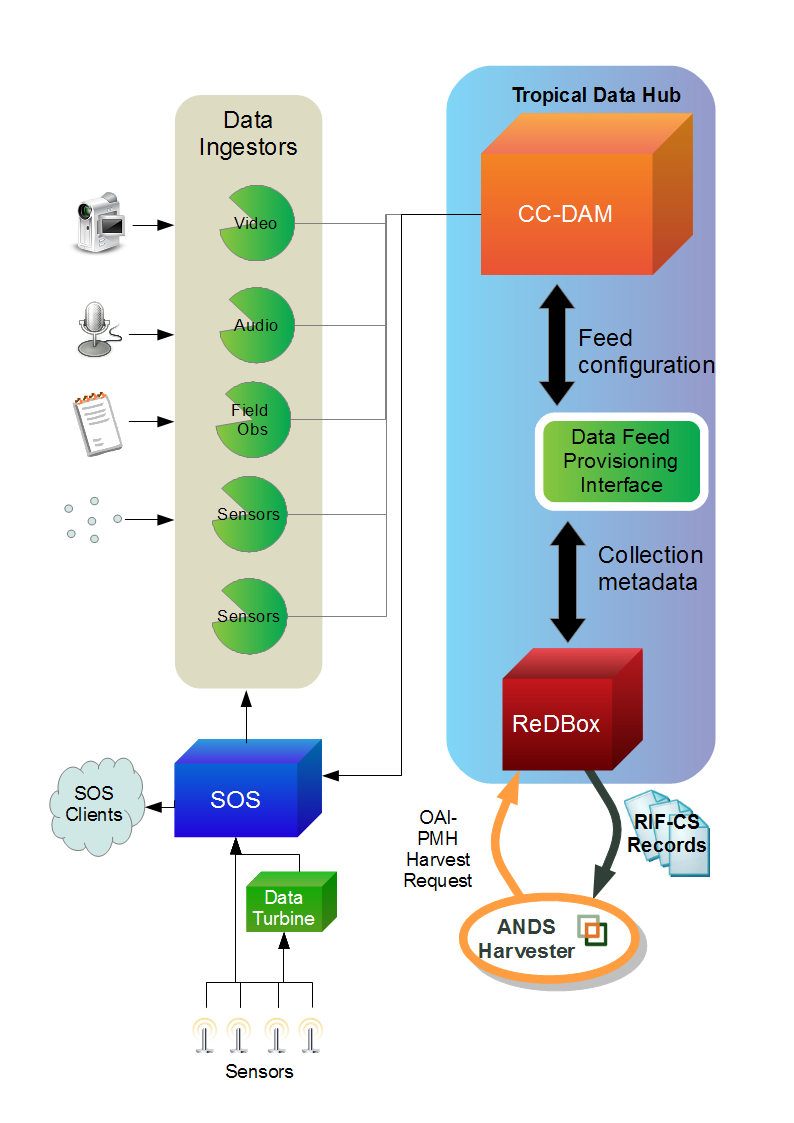
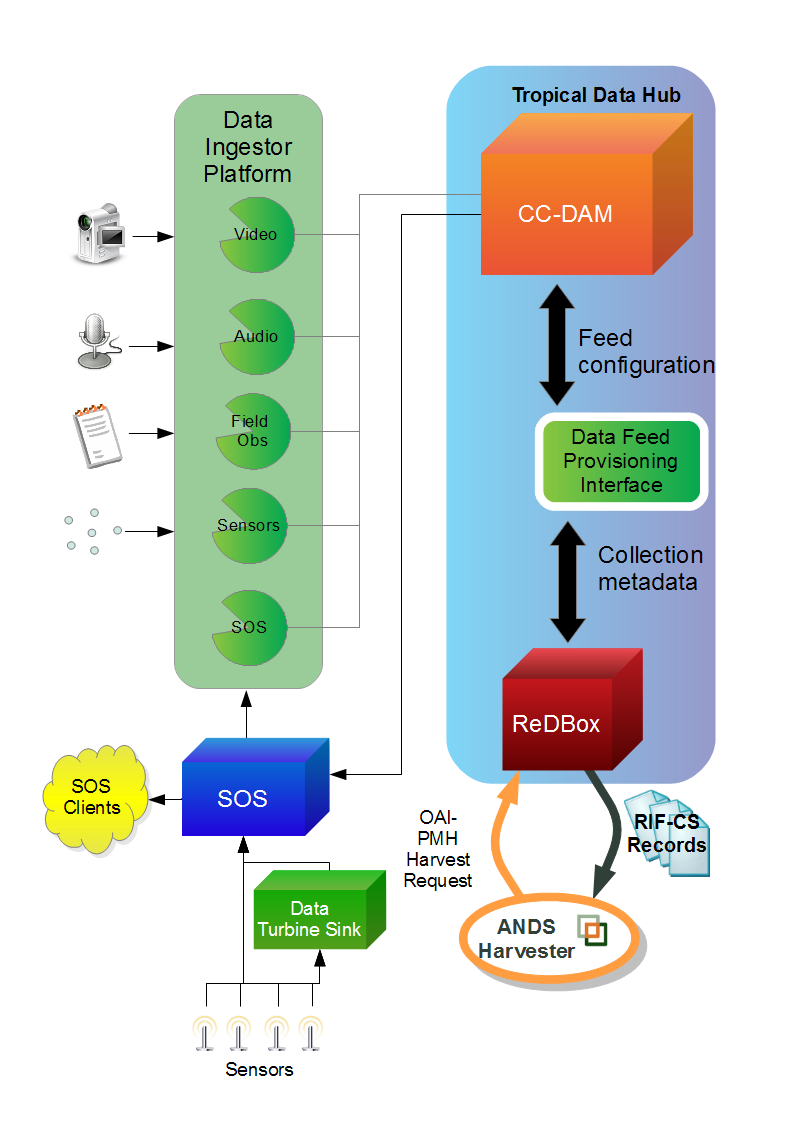
Updated the blog before initial sync

diff --git a/_site/2012/08/27/key-technologies--key-features/index.html b/_site/2012/08/27/key-technologies--key-features/index.html
@@ -125,11 +125,11 @@
 <img class='diagram' src='/TDH-rich-data-capture/images/high-level-architecture.png' />
 <h2 id='technology'>Technology</h2>
 
-<p>The provisioning interface will be delivered in browser using <a href='http://www.python.org/'>Python</a> with the <a href='http://docs.pylonsproject.org/en/latest/docs/pyramid.html'>Pyramid</a> and <a href='http://docs.pylonsproject.org/projects/deform/en/latest/'>Deform</a> frameworks. It will provide a user friendly workflow for entering all configuration and metadata about the project at a single location. The entered data will be passed to the <a href='http://www.coastalcoms.com/'>CoastalCOMS</a> Data Access Management (CC-DAM), <a href='http://www.opengeospatial.org/standards/sos'>Sensor Observation Service (SOS)</a> and <a href='http://www.redboxresearchdata.com.au/'>ReDBox-Mint</a> systems to tie them together as a single easy to use system.</p>
+<p>The provisioning interface will be delivered in browser closely linked to the <a href='http://www.redboxresearchdata.com.au/'>ReDBox</a> system and will provide a user friendly workflow for entering all configuration and metadata about the project at a single location. The entered data will be passed to the <a href='http://www.coastalcoms.com/'>CoastalCOMS</a> Data Access Management (CC-DAM), <a href='http://www.opengeospatial.org/standards/sos'>Sensor Observation Service (SOS)</a> and <a href='http://www.redboxresearchdata.com.au/'>ReDBox-Mint</a> systems to tie them together as a single easy to use system.</p>
 
 <p>The implementation of <a href='http://www.opengeospatial.org/standards/sos'>SOS</a> provided by <a href='http://52north.org/'>52&#176; North</a> will be used to receive environmental sensor data and metadata from the devices themselves. A new data layer will need to be written based on the CC-DAM system. A <a href='http://www.dataturbine.org/'>Data Turbine</a> sink implementation will written to allow buffering of data sent to the <a href='http://www.opengeospatial.org/standards/sos'>SOS</a>, it will be optional to use the <a href='http://www.dataturbine.org/'>Data Turbine</a>.</p>
 
-<p>CC-DAM will be used for data ingestion and storage. CC-DAM is proprietary software that will be setup and configured at <a href='http://www.jcu.edu.au/'>James Cook University</a> with an open source ingestor platform developed in <a href='http://www.java.com/en/'>Java</a> with a <a href='http://www.json.org/'>JSON</a> API.</p>
+<p>CC-DAM will be used for data ingestion and storage. CC-DAM is proprietary software that will be setup and configured at <a href='http://www.jcu.edu.au/'>James Cook University</a> with an open source ingestor platform developed in <a href='http://www.java.com/en/'>Java</a> with a <a href='http://www.json.org/'>JSON</a> API and ingestors will be written in <a href='http://www.python.org/'>Python</a>.</p>
 
 <p><a href='http://www.jcu.edu.au'>JCU&#8217;s</a> <a href='http://www.redboxresearchdata.com.au/'>ReDBox-Mint</a> installation will be used for storing, searching and publishing research metadata. ReDBox captures collection metadata (information about research data) whereas Mint is a name authority and vocabulary system (information about people, activities and services). Both ReDBox and Mint provide an <a href='http://www.openarchives.org/pmh/'>OAI-PMH</a> interface for harvesting their information and will be configured for <a href='http://researchdata.ands.org.au/'>Research Data Australia (RDA)</a> so that metadata is published nationally.</p>
 

diff --git a/_site/2012/08/27/the-team/index.html b/_site/2012/08/27/the-team/index.html
@@ -161,6 +161,24 @@
         <li>Embedded -  assembly, C, Microchip</li>
         <li>Software -  IntelliJ Idea, Adobe Photoshop, Altium, Subversion, Maven, OneJar, Ant, Nullsoft</li>
    </ul>
+</div><div class='person'>
+    <a name='nigelSims'> </a>
+    
+    
+    <h2>Nigel Sims</h2>
+    <h3>CC-DAM Software Engineer</h3>   
+</div><div class='person'>
+    <a name='nigelBajema'> </a>
+    
+    
+    <h2>Nigel Bajema</h2>
+    <h3>SEMAT &#38; ScienceMob Software Engineer, PhD Candidate</h3>    
+</div><div class='person'>
+    <a name='jin'> </a>
+    
+    
+    <h2>Yong Jin Lee</h2>
+    <h3>SEMAT &#38; ScienceMob Software Engineer, PhD Candidate</h3>
 </div>
     <hr>
     <div class="pagination">

diff --git a/_posts/2012-08-27-key-technologies--key-features.md b/_posts/2012-08-27-key-technologies--key-features.md
@@ -28,11 +28,11 @@ Architecture
 
 Technology
 ----------
-The provisioning interface will be delivered in browser using [Python](http://www.python.org/) with the [Pyramid](http://docs.pylonsproject.org/en/latest/docs/pyramid.html) and [Deform](http://docs.pylonsproject.org/projects/deform/en/latest/) frameworks.  It will provide a user friendly workflow for entering all configuration and metadata about the project at a single location.  The entered data will be passed to the [CoastalCOMS](http://www.coastalcoms.com/) Data Access Management (CC-DAM), [Sensor Observation Service (SOS)](http://www.opengeospatial.org/standards/sos) and [ReDBox-Mint](http://www.redboxresearchdata.com.au/) systems to tie them together as a single easy to use system.
+The provisioning interface will be delivered in browser closely linked to the [ReDBox](http://www.redboxresearchdata.com.au/) system and will provide a user friendly workflow for entering all configuration and metadata about the project at a single location.  The entered data will be passed to the [CoastalCOMS](http://www.coastalcoms.com/) Data Access Management (CC-DAM), [Sensor Observation Service (SOS)](http://www.opengeospatial.org/standards/sos) and [ReDBox-Mint](http://www.redboxresearchdata.com.au/) systems to tie them together as a single easy to use system.
 
 The implementation of [SOS](http://www.opengeospatial.org/standards/sos) provided by [52&#176; North](http://52north.org/) will be used to receive environmental sensor data and metadata from the devices themselves.  A new data layer will need to be written based on the CC-DAM system.  A [Data Turbine](http://www.dataturbine.org/) sink implementation will written to allow buffering of data sent to the [SOS](http://www.opengeospatial.org/standards/sos), it will be optional to use the [Data Turbine](http://www.dataturbine.org/).
 
-CC-DAM will be used for data ingestion and storage.  CC-DAM is proprietary software that will be setup and configured at [James Cook University](http://www.jcu.edu.au/) with an open source ingestor platform developed in [Java](http://www.java.com/en/) with a [JSON](http://www.json.org/) API.
+CC-DAM will be used for data ingestion and storage.  CC-DAM is proprietary software that will be setup and configured at [James Cook University](http://www.jcu.edu.au/) with an open source ingestor platform developed in [Java](http://www.java.com/en/) with a [JSON](http://www.json.org/) API and ingestors will be written in [Python](http://www.python.org/).
 
 [JCU's](http://www.jcu.edu.au) [ReDBox-Mint](http://www.redboxresearchdata.com.au/) installation will be used for storing, searching and publishing research metadata.  ReDBox captures collection metadata (information about research data) whereas Mint is a name authority and vocabulary system (information about people, activities and services).  Both ReDBox and Mint provide an [OAI-PMH](http://www.openarchives.org/pmh/) interface for harvesting their information and will be configured for [Research Data Australia (RDA)](http://researchdata.ands.org.au/) so that metadata is published nationally.
 

diff --git a/_posts/2012-08-27-the-team.md b/_posts/2012-08-27-the-team.md
@@ -54,7 +54,7 @@ tags: [andsProject, andsProjectTeam, andsSkills, andsDataCapture, andsDC24, fund
     {% assign casey = site.people['casey'] %}
     {% if casey.gravatar %}
         <div class="avatarwrapper">
-            <img class="avatar" src="http://www.gravatar.com/avatar/{{ cbajema.gravatar }}?s=64">
+            <img class="avatar" src="http://www.gravatar.com/avatar/{{ casey.gravatar }}?s=64">
         </div>
     {% endif %}
     <h2>Casey Bajema</h2>
@@ -69,5 +69,38 @@ tags: [andsProject, andsProjectTeam, andsSkills, andsDataCapture, andsDC24, fund
         <li>Embedded -  assembly, C, Microchip</li>
         <li>Software -  IntelliJ Idea, Adobe Photoshop, Altium, Subversion, Maven, OneJar, Ant, Nullsoft</li>
    </ul>
+</div>
+<div class="person">
+    <a name="nigelSims"> </a>
+    {% assign nigelSims = site.people['nigelSims'] %}
+    {% if nigelSims.gravatar %}
+        <div class="avatarwrapper">
+            <img class="avatar" src="http://www.gravatar.com/avatar/{{ nigelSims.gravatar }}?s=64">
+        </div>
+    {% endif %}
+    <h2>Nigel Sims</h2>
+    <h3>CC-DAM Software Engineer</h3>   
+</div>
+<div class="person">
+    <a name="nigelBajema"> </a>
+    {% assign nigelBajema = site.people['nigelBajema'] %}
+    {% if nigelBajema.gravatar %}
+        <div class="avatarwrapper">
+            <img class="avatar" src="http://www.gravatar.com/avatar/{{ nigelBajema.gravatar }}?s=64">
+        </div>
+    {% endif %}
+    <h2>Nigel Bajema</h2>
+    <h3>SEMAT &#38; ScienceMob Software Engineer, PhD Candidate</h3>    
+</div>
+<div class="person">
+    <a name="jin"> </a>
+    {% assign jin = site.people['jin'] %}
+    {% if jin.gravatar %}
+        <div class="avatarwrapper">
+            <img class="avatar" src="http://www.gravatar.com/avatar/{{ jin.gravatar }}?s=64">
+        </div>
+    {% endif %}
+    <h2>Yong Jin Lee</h2>
+    <h3>SEMAT &#38; ScienceMob Software Engineer, PhD Candidate</h3>
 </div>
 
